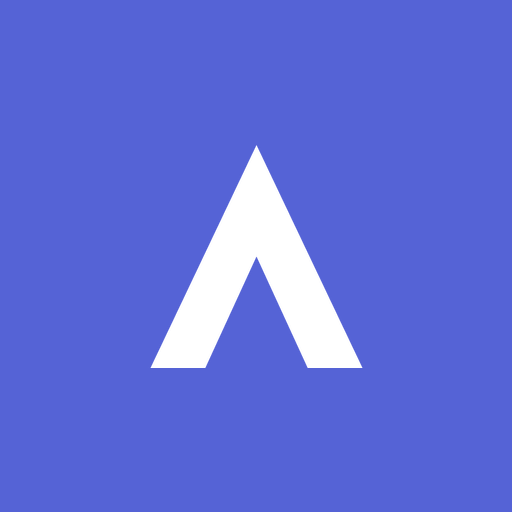
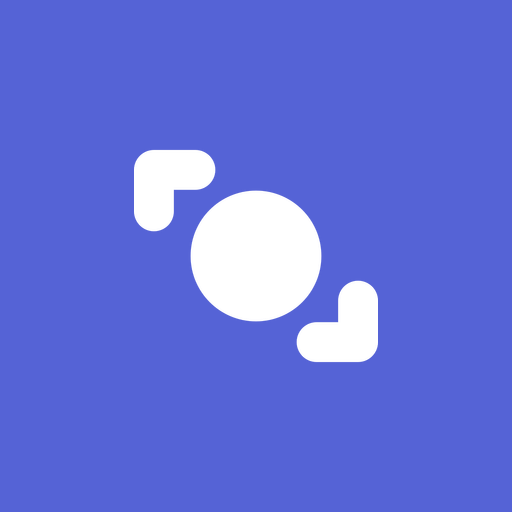
feat(brand): adaptv gets a mark of its own, and the default set is drawn from it
The placeholder chevron was the right shape and the right pipeline, not the
brand. This is the brand: two corner brackets and a disc — opposite corners of
a frame that is never drawn, so the frame is whatever size the viewport is, and
the disc is the app sitting inside it. Rotationally symmetric about the centre,
which is what keeps it from reading as hand-placed.

It is drawn to the constraints the generator already enforces rather than
retrofitted to them: full bleed on one flat colour so measureArtwork can isolate
it, everything inside a centred circle of radius 410 so no mask has to crop or
shrink it, and enough weight to survive both the 16px favicon and being reduced
to a single ink for the Android themed icon. gen icons produces the whole set
from it with no warnings.

assets/default-icons/* regenerated from the new mark, and the README's
placeholder caveat drops with it.

Changed region(s): [[0.25, 0.2812, 0.75, 0.7188]]

diff --git a/assets/default-icons/README.md b/assets/default-icons/README.md
@@ -32,9 +32,7 @@ Run it from a scratch app whose `icons` points at a temp directory, then copy th
 
 The mark is **full bleed on a flat colour**, and both halves are deliberate. Full bleed because
 every platform applies its own mask and art with its own rounded background gets rounded twice.
-Flat because that is what lets `measureArtwork` see the chevron: it reads the border ring, finds
+Flat because that is what lets `measureArtwork` see the mark: it reads the border ring, finds
 one colour, lifts the mark off it and scales it until it clears the mask. A gradient — which this
 file used to have — is unclassifiable, so the mark would be left where it was drawn and cropped.
 The reference art should demonstrate the path that works, and it generates with no warnings.
-
-⚠ The current mark is a **placeholder**: the right shape and the right pipeline, not the brand.
